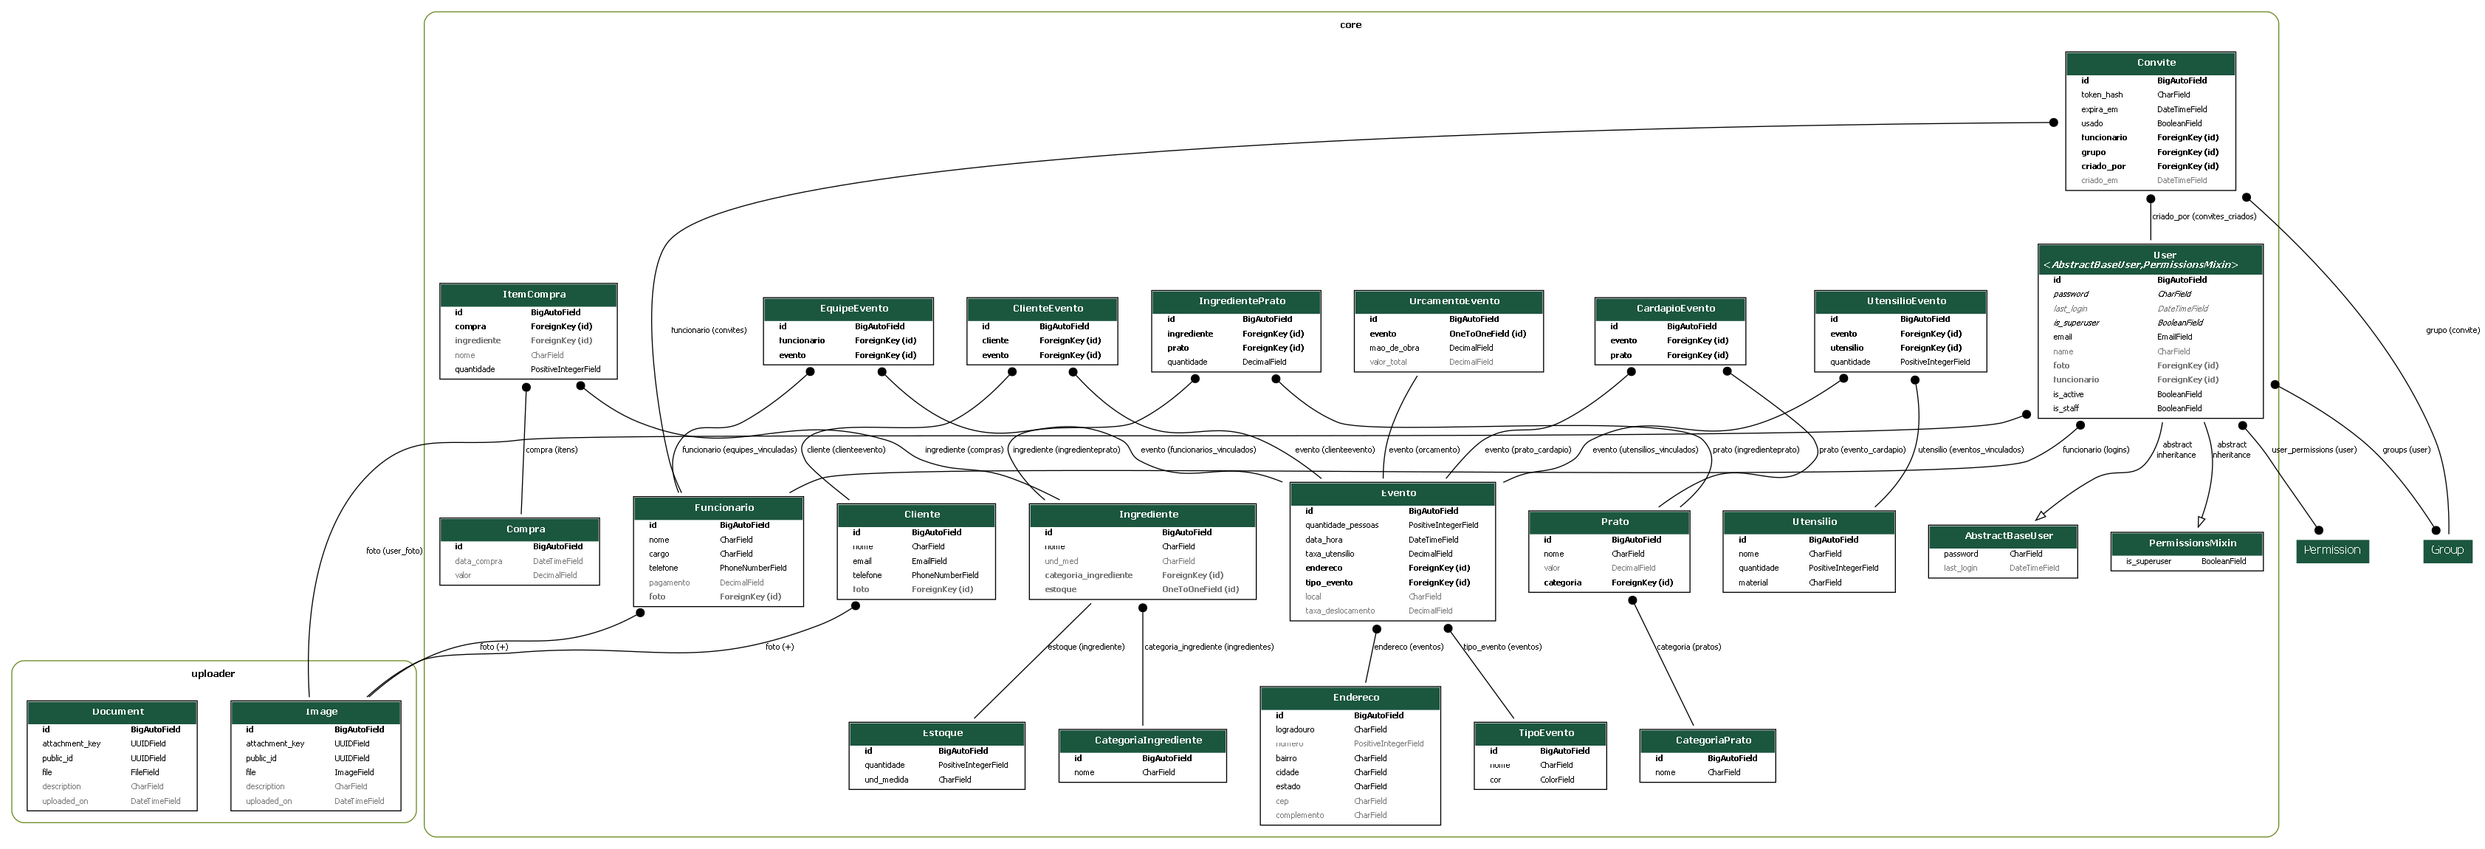
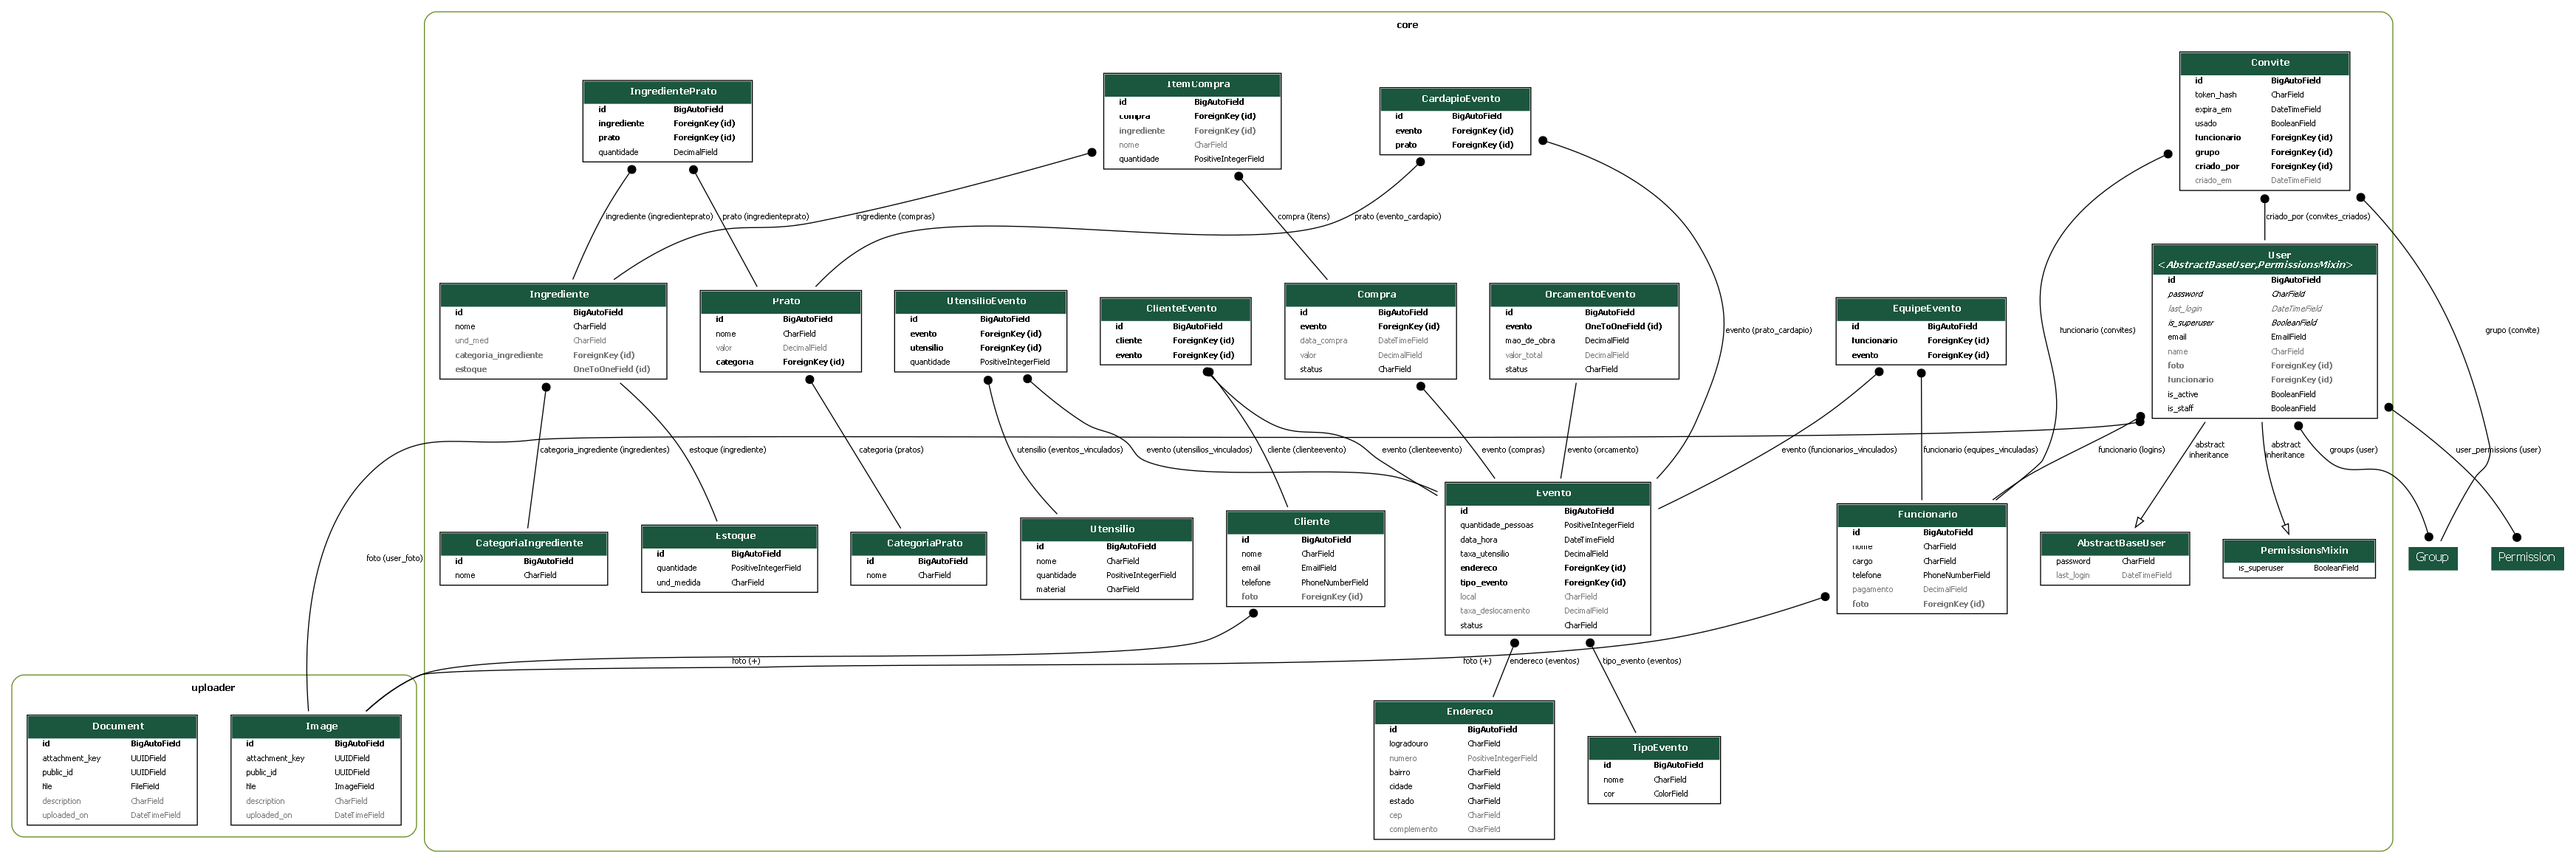
feat: adicição de status em Evento e Compra; vinculo de Compra a Evento e revisão dos serializers com padrao de 3 camadas

diff --git a/core/migrations/0001_initial.py b/core/migrations/0001_initial.py
@@ -1,4 +1,4 @@
-# Generated by Django 5.2.13 on 2026-08-23 03:23
+# Generated by Django 5.2.13 on 2026-08-25 02:21
 
 import colorfield.fields
 import core.models.user
@@ -38,18 +38,6 @@ class Migration(migrations.Migration):
             options={
                 'verbose_name': 'Categoria do Prato',
                 'verbose_name_plural': 'Categorias dos Pratos',
-            },
-        ),
-        migrations.CreateModel(
-            name='Compra',
-            fields=[
-                ('id', models.BigAutoField(auto_created=True, primary_key=True, serialize=False, verbose_name='ID')),
-                ('data_compra', models.DateTimeField(blank=True, null=True)),
-                ('valor', models.DecimalField(blank=True, decimal_places=2, max_digits=10, null=True)),
-            ],
-            options={
-                'verbose_name': 'Compra',
-                'verbose_name_plural': 'Compras',
             },
         ),
         migrations.CreateModel(
@@ -163,6 +151,7 @@ class Migration(migrations.Migration):
                 ('taxa_utensilio', models.DecimalField(decimal_places=2, max_digits=10)),
                 ('local', models.CharField(blank=True, max_length=255, null=True)),
                 ('taxa_deslocamento', models.DecimalField(blank=True, decimal_places=2, max_digits=10, null=True)),
+                ('status', models.CharField(choices=[('orcamento', 'Orçamento'), ('confirmado', 'Confirmado'), ('em_andamento', 'Em andamento'), ('concluido', 'Concluído'), ('cancelado', 'Cancelado')], default='orcamento', max_length=20)),
                 ('clientes', models.ManyToManyField(related_name='eventos', through='core.ClienteEvento', to='core.cliente')),
                 ('endereco', models.ForeignKey(null=True, on_delete=django.db.models.deletion.SET_NULL, related_name='eventos', to='core.endereco')),
             ],
@@ -180,6 +169,20 @@ class Migration(migrations.Migration):
             options={
                 'verbose_name': 'Equipe do Evento',
                 'verbose_name_plural': 'Equipes do Evento',
+            },
+        ),
+        migrations.CreateModel(
+            name='Compra',
+            fields=[
+                ('id', models.BigAutoField(auto_created=True, primary_key=True, serialize=False, verbose_name='ID')),
+                ('data_compra', models.DateTimeField(blank=True, null=True)),
+                ('valor', models.DecimalField(blank=True, decimal_places=2, max_digits=10, null=True)),
+                ('status', models.CharField(choices=[('pendente', 'Pendente'), ('concluida', 'Concluída')], default='pendente', max_length=20)),
+                ('evento', models.ForeignKey(on_delete=django.db.models.deletion.CASCADE, related_name='compras', to='core.evento')),
+            ],
+            options={
+                'verbose_name': 'Compra',
+                'verbose_name_plural': 'Compras',
             },
         ),
         migrations.AddField(
@@ -280,6 +283,7 @@ class Migration(migrations.Migration):
                 ('id', models.BigAutoField(auto_created=True, primary_key=True, serialize=False, verbose_name='ID')),
                 ('mao_de_obra', models.DecimalField(decimal_places=2, default=0.0, max_digits=10)),
                 ('valor_total', models.DecimalField(blank=True, decimal_places=2, max_digits=10, null=True)),
+                ('status', models.CharField(choices=[('pendente', 'Pendente'), ('aprovado', 'Aprovado'), ('recusado', 'Recusado')], default='pendente', max_length=20)),
                 ('evento', models.OneToOneField(on_delete=django.db.models.deletion.CASCADE, related_name='orcamento', to='core.evento')),
             ],
             options={

diff --git a/core/serializers/__init__.py b/core/serializers/__init__.py
@@ -1,21 +1,21 @@
 from. categoria_ingrediente import CategoriaIngredienteSerializer
 from .user import UserRegistrationSerializer, UserSerializer
-from .funcionario import FuncionarioSerializer
+from .funcionario import FuncionarioSerializer, FuncionarioListSerializer, FuncionarioRetrieveSerializer
 from .estoque import EstoqueSerializer
-from .evento import EventoSerializer
+from .evento import EventoSerializer, EventoListSerializer, EventoRetrieveSerializer
 from .utensilio import UtensilioSerializer
 from .tipo_evento import TipoEventoSerializer
-from .prato import PratoSerializer
+from .prato import PratoSerializer, PratoListSerializer, PratoRetrieveSerializer
 from .categoria_prato import CategoriaPratoSerializer
-from .ingrediente import IngredienteSerializer
-from .item_compra import ItemCompraSerializer
-from .equipe_evento import EquipeEventoSerializer
-from .orcamento_evento import OrcamentoEventoSerializer
-from .utensilio_evento import UtensilioEventoSerializer
-from .ingrediente_prato import IngredientePratoSerializer
-from .cliente import ClienteSerializer
-from .cardapio_evento import CardapioEventoSerializer
-from .compra import CompraSerializer
-from .convite import ConviteSerializer
-from .cliente_evento import ClienteEventoSerializer
+from .ingrediente import IngredienteSerializer, IngredienteListSerializer, IngredienteRetrieveSerializer
+from .item_compra import ItemCompraSerializer, ItemCompraListSerializer, ItemCompraRetrieveSerializer
+from .equipe_evento import EquipeEventoSerializer, EquipeEventoListSerializer, EquipeEventoRetrieveSerializer
+from .orcamento_evento import OrcamentoEventoSerializer, OrcamentoEventoListSerializer, OrcamentoEventoRetrieveSerializer
+from .utensilio_evento import UtensilioEventoSerializer, UtensilioEventoListSerializer, UtensilioEventoRetrieveSerializer
+from .ingrediente_prato import IngredientePratoSerializer, IngredientePratoListSerializer, IngredientePratoRetrieveSerializer
+from .cliente import ClienteSerializer, ClienteListSerializer, ClienteRetrieveSerializer
 from .endereco import EnderecoSerializer
+from .cardapio_evento import CardapioEventoSerializer, CardapioEventoListSerializer, CardapioEventoRetrieveSerializer
+from .compra import CompraSerializer, CompraListSerializer, CompraRetrieveSerializer
+from .convite import ConviteSerializer, ConviteListSerializer, ConviteRetrieveSerializer
+from .cliente_evento import ClienteEventoSerializer, ClienteEventoListSerializer, ClienteEventoRetrieveSerializer

diff --git a/core/admin.py b/core/admin.py
@@ -107,7 +107,8 @@ class ConviteAdmin(ModelAdmin):
 
 @register(Compra)
 class CompraAdmin(ModelAdmin):
-    list_display = ('id', 'data_compra', 'valor')
+    list_display = ('id', 'evento', 'data_compra', 'valor', 'status')
+    list_filter = ('status',)
     ordering = ('-data_compra',)
     list_per_page = 20
 
@@ -129,10 +130,10 @@ class EnderecoAdmin(ModelAdmin):
 @register(Evento)
 class EventoAdmin(ModelAdmin):
    # Exibe os dados reais que existem na tabela Evento
-    list_display = ('id', 'data_hora', 'quantidade_pessoas', 'endereco')
+    list_display = ('id', 'data_hora', 'quantidade_pessoas', 'endereco', 'status')
     # Permite buscar pela cidade ou logradouro através da chave estrangeira (usando __)
-    search_fields = ('endereco__cidade', 'endereco__logradouro')
-    list_filter = ('data_hora', 'endereco__cidade')
+    search_fields = ('endereco__cidade', 'endereco__logradouro',)
+    list_filter = ('data_hora', 'endereco__cidade', 'status') # Permite filtrar por data, cidade e status
     ordering = ('-data_hora',) # O sinal de menos (-) faz ordenar do mais recente para o mais antigo
     list_per_page = 10
 
@@ -217,7 +218,7 @@ class IngredientePratoAdmin(ModelAdmin):
 
 @register(OrcamentoEvento)
 class OrcamentoEventoAdmin(ModelAdmin):
-    list_display = ('evento', 'mao_de_obra', 'valor_total')
+    list_display = ('evento', 'mao_de_obra', 'valor_total', 'status')
     search_fields = ('evento__id',)
     list_per_page = 20
 

diff --git a/core/models/evento.py b/core/models/evento.py
@@ -19,6 +19,20 @@ class Endereco(models.Model):
 
 
 class Evento(models.Model):
+    STATUS_ORCAMENTO = 'orcamento'
+    STATUS_CONFIRMADO = 'confirmado'
+    STATUS_EM_ANDAMENTO = 'em_andamento'
+    STATUS_CONCLUIDO = 'concluido'
+    STATUS_CANCELADO = 'cancelado'
+
+    STATUS_CHOICES = [
+        (STATUS_ORCAMENTO, 'Orçamento'),
+        (STATUS_CONFIRMADO, 'Confirmado'),
+        (STATUS_EM_ANDAMENTO, 'Em andamento'),
+        (STATUS_CONCLUIDO, 'Concluído'),
+        (STATUS_CANCELADO, 'Cancelado'),
+    ]
+
     clientes = models.ManyToManyField('Cliente', through='ClienteEvento', related_name='eventos')
     quantidade_pessoas = models.PositiveIntegerField(blank=False, null=False)
     data_hora = models.DateTimeField()
@@ -29,6 +43,8 @@ class Evento(models.Model):
     utensilio_evento = models.ManyToManyField('Utensilio', through='UtensilioEvento', related_name='eventos')
     local = models.CharField(max_length=255, blank=True, null=True)
     taxa_deslocamento = models.DecimalField(max_digits=10, decimal_places=2, null=True, blank=True)
+    status = models.CharField(max_length=20, choices=STATUS_CHOICES, default=STATUS_ORCAMENTO)
+
 
     class Meta:
         verbose_name = 'Evento'

diff --git a/core/serializers/orcamento_evento.py b/core/serializers/orcamento_evento.py
@@ -1,21 +1,20 @@
-from rest_framework import serializers
+from rest_framework.serializers import ModelSerializer
 
 from core.models import OrcamentoEvento
 
 
-class OrcamentoEventoSerializer(serializers.ModelSerializer):
-    # Expomos os métodos de cálculo (@property) da model como campos de leitura na API
-    valor_total_pratos = serializers.ReadOnlyField()
-    valor_total_equipe = serializers.ReadOnlyField()
-    valor_total_orcamento = serializers.ReadOnlyField()
-
+class OrcamentoEventoSerializer(ModelSerializer):
     class Meta:
         model = OrcamentoEvento
-        fields = [
-            'id', 
-            'evento', 
-            'mao_de_obra', 
-            'valor_total_pratos', 
-            'valor_total_equipe', 
-            'valor_total_orcamento'
-        ]
+        fields = '__all__'
+
+class OrcamentoEventoListSerializer(ModelSerializer):
+    class Meta:
+        model = OrcamentoEvento
+        fields = ('id', 'evento', 'valor_total', 'status')
+
+class OrcamentoEventoRetrieveSerializer(ModelSerializer):
+    class Meta:
+        model = OrcamentoEvento
+        fields = '__all__'
+        depth = 1

diff --git a/core/serializers/funcionario.py b/core/serializers/funcionario.py
@@ -5,15 +5,6 @@ from uploader.models import Image
 from uploader.serializers import ImageSerializer
 
 
-class FuncionarioRetrieveSerializer(ModelSerializer):
-    foto = ImageSerializer(required=False)
-
-    class Meta:
-        model = Funcionario
-        fields = '__all__'
-        depth = 1
-
-
 class FuncionarioSerializer(ModelSerializer):
     foto_attachment_key = SlugRelatedField(
         source='foto',
@@ -27,3 +18,16 @@ class FuncionarioSerializer(ModelSerializer):
     class Meta:
         model = Funcionario
         fields = '__all__'
+
+class FuncionarioListSerializer(ModelSerializer):
+    class Meta:
+        model = Funcionario
+        fields = ('id', 'nome', 'cargo')
+
+class FuncionarioRetrieveSerializer(ModelSerializer):
+    foto = ImageSerializer(required=False)
+
+    class Meta:
+        model = Funcionario
+        fields = '__all__'
+        depth = 1

diff --git a/core/serializers/cliente.py b/core/serializers/cliente.py
@@ -5,15 +5,6 @@ from uploader.models import Image
 from uploader.serializers import ImageSerializer
 
 
-class ClienteRetrieveSerializer(ModelSerializer):
-    foto = ImageSerializer(required=False)
-
-    class Meta:
-        model = Cliente
-        fields = '__all__'
-        depth = 1
-
-
 class ClienteSerializer(ModelSerializer):
     foto_attachment_key = SlugRelatedField(
         source='foto',
@@ -27,3 +18,17 @@ class ClienteSerializer(ModelSerializer):
     class Meta:
         model = Cliente
         fields = '__all__'
+
+class ClienteListSerializer(ModelSerializer):
+    class Meta:
+        model = Cliente
+        fields = ('id', 'nome', 'telefone')
+
+class ClienteRetrieveSerializer(ModelSerializer):
+    foto = ImageSerializer(required=False)
+
+    class Meta:
+        model = Cliente
+        fields = '__all__'
+        depth = 1
+

diff --git a/core/models/orcamento_evento.py b/core/models/orcamento_evento.py
@@ -2,9 +2,20 @@ from django.db import models
 
 
 class OrcamentoEvento(models.Model):
+    STATUS_PENDENTE = 'pendente'
+    STATUS_APROVADO = 'aprovado'
+    STATUS_RECUSADO = 'recusado'
+
+    STATUS_CHOICES = [
+        (STATUS_PENDENTE, 'Pendente'),
+        (STATUS_APROVADO, 'Aprovado'),
+        (STATUS_RECUSADO, 'Recusado'),
+    ]
+
     evento = models.OneToOneField('Evento', on_delete=models.CASCADE, related_name='orcamento')
     mao_de_obra = models.DecimalField(max_digits=10, decimal_places=2, default=0.00)
     valor_total = models.DecimalField(max_digits=10, decimal_places=2, null=True, blank=True)
+    status = models.CharField(max_length=20, choices=STATUS_CHOICES, default=STATUS_PENDENTE)
 
     class Meta:
         verbose_name = 'Orçamento do Evento'

diff --git a/core/models/compra.py b/core/models/compra.py
@@ -2,8 +2,17 @@ from django.db import models
 
 
 class Compra(models.Model):
+    STATUS_PENDENTE = 'pendente'
+    STATUS_CONCLUIDA = 'concluida'
+
+    STATUS_CHOICES = [
+        (STATUS_PENDENTE, 'Pendente'),
+        (STATUS_CONCLUIDA, 'Concluída'),
+    ]
+    evento = models.ForeignKey('Evento', on_delete=models.CASCADE, related_name='compras')
     data_compra = models.DateTimeField(null=True, blank=True)
     valor = models.DecimalField(max_digits=10, decimal_places=2, null=True, blank=True)
+    status = models.CharField(max_length=20, choices=STATUS_CHOICES, default=STATUS_PENDENTE)
 
     class Meta:
         verbose_name = 'Compra'

diff --git a/core/serializers/convite.py b/core/serializers/convite.py
@@ -10,3 +10,19 @@ class ConviteSerializer(ModelSerializer):
         extra_kwargs = {
             'token_hash': {'write_only': True},
         }
+
+
+class ConviteListSerializer(ModelSerializer):
+    class Meta:
+        model = Convite
+        fields = ('id', 'funcionario', 'grupo', 'usado', 'expira_em')
+
+
+class ConviteRetrieveSerializer(ModelSerializer):
+    class Meta:
+        model = Convite
+        fields = '__all__'
+        depth = 1
+        extra_kwargs = {
+            'token_hash': {'write_only': True},
+        }

diff --git a/core/serializers/ingrediente_prato.py b/core/serializers/ingrediente_prato.py
@@ -7,3 +7,14 @@ class IngredientePratoSerializer(ModelSerializer):
     class Meta:
         model = IngredientePrato
         fields = '__all__'
+
+class IngredientePratoListSerializer(ModelSerializer):
+    class Meta:
+        model = IngredientePrato
+        fields = ('id', 'ingrediente', 'prato', 'quantidade')
+
+class IngredientePratoRetrieveSerializer(ModelSerializer):
+    class Meta:
+        model = IngredientePrato
+        fields = '__all__'
+        depth = 1

diff --git a/core/serializers/utensilio_evento.py b/core/serializers/utensilio_evento.py
@@ -7,3 +7,14 @@ class UtensilioEventoSerializer(ModelSerializer):
     class Meta:
         model = UtensilioEvento
         fields = '__all__'
+
+class UtensilioEventoListSerializer(ModelSerializer):
+    class Meta:
+        model = UtensilioEvento
+        fields = ('id', 'evento', 'utensilio', 'quantidade')
+
+class UtensilioEventoRetrieveSerializer(ModelSerializer):
+    class Meta:
+        model = UtensilioEvento
+        fields = '__all__'
+        depth = 1
